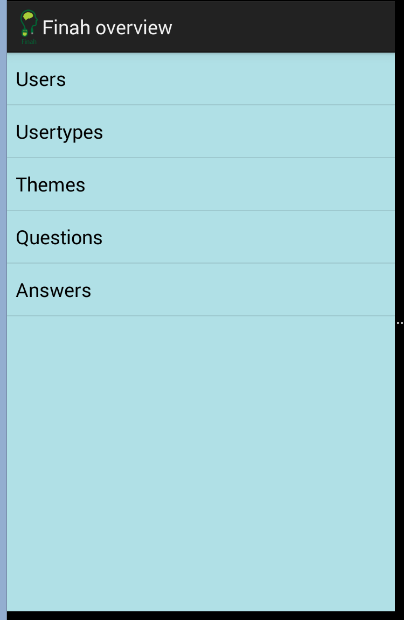
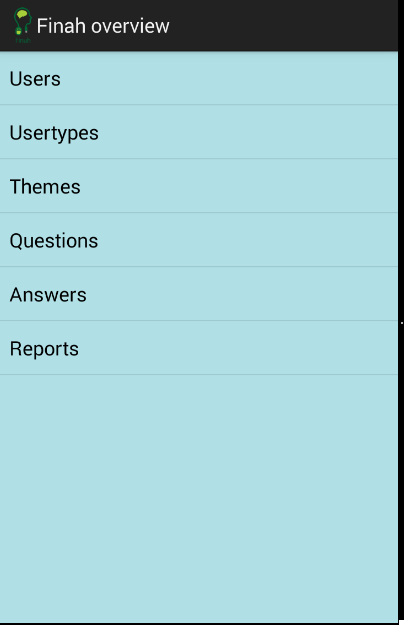
Updated README for Finah-Android

Changed region(s): [[0.0, 0.0, 1.0, 1.0]]

diff --git a/README.md b/README.md
@@ -247,6 +247,22 @@ Enkel een admin user kan op deze app inloggen. U kan het testen door in te logge
 - User Details screen
  ![Android UserDetails Screen](/Screenshots/Finah-Android-Screens/UserDetails.png)
 
+ - Reports Screen
+ ![Android Login Screen](/Screenshots/Finah-Android-Screens/Reports.png)
+
+
+- Report Users Screen
+ ![Android Admin Screen](/Screenshots/Finah-Android-Screens/ReportUsers.png)
+
+
+- Report Questions screen
+ ![Android Users Screen](/Screenshots/Finah-Android-Screens/ReportQuestions.png)
+
+
+- Report Question Details screen
+ ![Android UserDetails Screen](/Screenshots/Finah-Android-Screens/ReportQuestionDetails.png)
+
+
 
 
 Finah-Site
